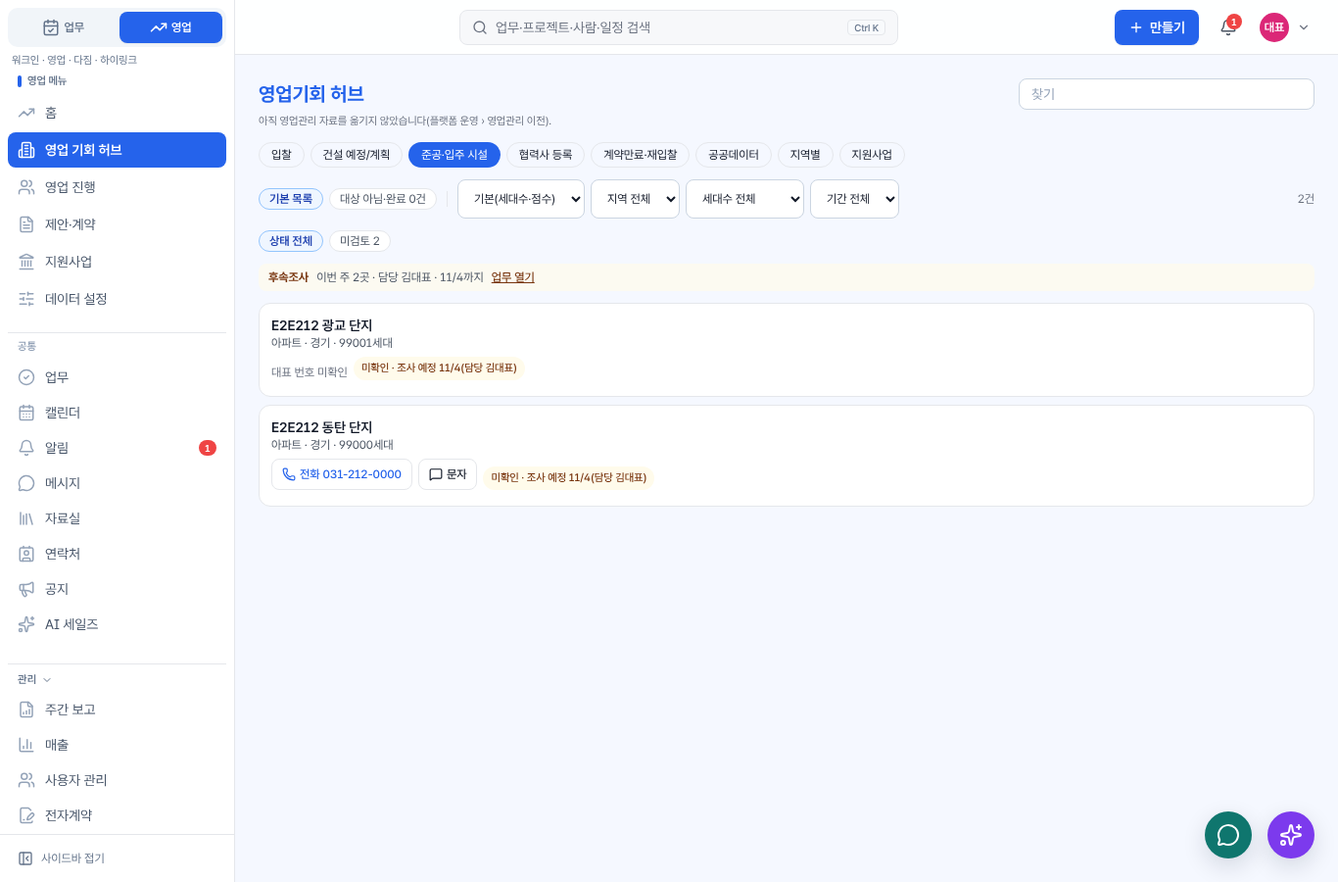
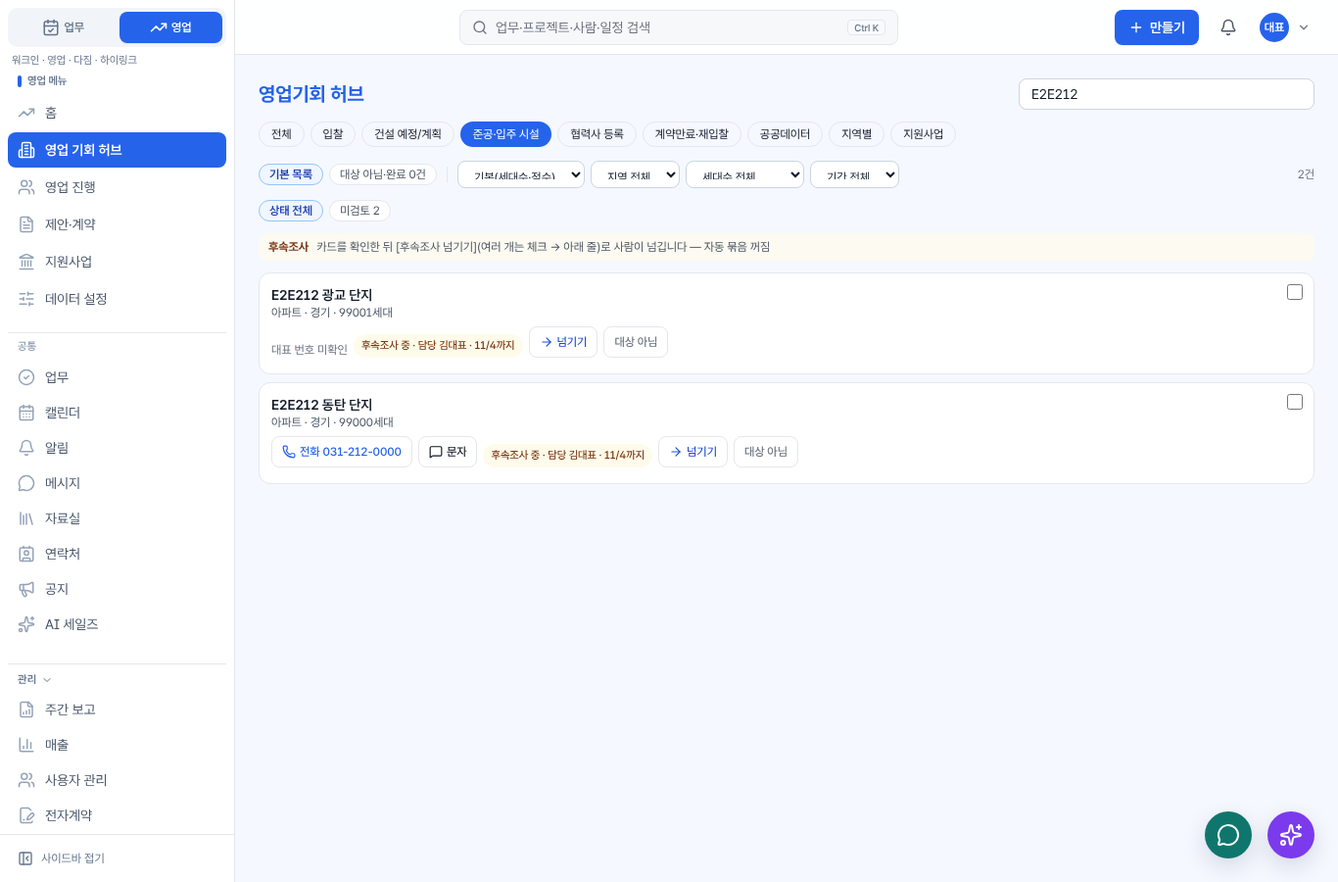
[배포확인요청][로컬요청] 247차 — #777 후속조사 자동 묶음 끄기 · 사람이 [후속조사 넘기기](담당 기본 = 담당자 지정) · #778 완료 창 연락 결과(미팅 → 일정 · 다음 연락 → 업무)
로컬 10/28 21:35 대표 결정.
- src/lib/sales/research.ts: RESEARCH_WEEKLY_GATE 기본 'off' · handoffResearch(고른 시설 → 업무 하나, 담당 기본 = 영업 원천·시설 규칙, 이미 조사 중이면 건너뜀) · 연락 결과(call·contactTitle·reaction·meetingAt·nextDate) → 미팅 일정(회사 캘린더, 권한 없으면 내 캘린더)·다음 연락 업무, 같은 값 다시 저장해도 한 번 · 통화 안 됨만이면 확인 못함
- src/app/api/sales/research/handoff: POST
- src/lib/sales/srcViews.ts: 카드 research 에 반응·미팅·직함·다음 연락
- src/components/sales/SalesSrc.tsx: ResearchHandoff(카드·일괄 줄) · 칩 '후속조사 중 · 담당 · 마감' · 연락 결과 칩 · 머리 줄 자동 꺼짐 안내
- src/components/sales/ResearchAsk.tsx: 통화·반응·직함·미팅 약속·다음 연락일 · 계약 만료일 선택 · 물어볼 말(미팅) · 정리 줄
- tests: api sales-research-handoff-247(새) · e2e research212(두 곳 체크 넘기기·연락 결과)
시험: API 8/8 · E2E 1/1 · typecheck·lint·build

Claude-Session: https://claude.ai/code/session_016D6QaBbBuSZXAeHKp3DqaZ

diff --git a/src/lib/sales/research.ts b/src/lib/sales/research.ts
@@ -23,7 +23,11 @@ const AGAIN_DAYS = 84;
 export type Missing = 'operator' | 'contract' | 'phone';
 /** #758(대표 10/28): mode = 운영 방식(직영·위탁·미개관) · firstPick = 미개관이면 첫 운영사 선정 예정 시기(자유 글) */
 export const RESEARCH_MODES = ['직영', '위탁', '미개관'] as const;
-export type ResearchResult = { operator?: string | null; contractEnd?: string | null; phone?: string | null; note?: string | null; mode?: (typeof RESEARCH_MODES)[number] | null; firstPick?: string | null };
+/** 247차 #778(대표 10/28 21:35 '계약 만료일은 잘 안 알려 줌 — 컨택해서 미팅 유도'): 연락 결과 — 통화·통화한 분 직함(개인 전화는 저장 안 함)·반응·미팅 약속(일정)·다음 연락일(업무) */
+export const RESEARCH_CALLS = ['통화함', '안 받음', '번호 틀림'] as const;
+export const RESEARCH_REACTIONS = ['관심 있음', '보통', '관심 없음'] as const;
+export type ResearchResult = { operator?: string | null; contractEnd?: string | null; phone?: string | null; note?: string | null; mode?: (typeof RESEARCH_MODES)[number] | null; firstPick?: string | null;
+  call?: (typeof RESEARCH_CALLS)[number] | null; contactTitle?: string | null; reaction?: (typeof RESEARCH_REACTIONS)[number] | null; meetingAt?: string | null; nextDate?: string | null; meetingEventId?: string | null; nextTaskId?: string | null };
 export type ResearchState = { id: number; week: string; status: 'open' | 'done' | 'none'; due: string | null; taskId: string | null; assignee: string | null; doneAt: string | null; missing: Missing[];
   /** 지금까지 적은 값(최근 것 먼저 — 칸마다) */ result: ResearchResult };
 
@@ -45,7 +49,7 @@ export async function researchState(sql: Sql, t: string): Promise<Map<string, Re
   const out = new Map<string, ResearchState>();
   for (const r of rows) {
     const cur = out.get(r.src_id);
-    if (cur) { for (const k of ['operator', 'contractEnd', 'phone', 'note', 'mode', 'firstPick'] as const) if (!cur.result[k] && r.result?.[k]) (cur.result as Record<string, unknown>)[k] = r.result[k]; continue; }
+    if (cur) { for (const k of ['operator', 'contractEnd', 'phone', 'note', 'mode', 'firstPick', 'call', 'contactTitle', 'reaction', 'meetingAt', 'nextDate'] as const) if (!cur.result[k] && r.result?.[k]) (cur.result as Record<string, unknown>)[k] = r.result[k]; continue; }
     const closed = r.status === 'open' && (!r.task_id || r.deleted || r.task_status === 'done');
     const doneAt = r.done_at ?? (closed ? r.completed_at ?? null : null);
     out.set(r.src_id, { id: r.id, week: r.week, status: closed ? 'none' : (r.status as ResearchState['status']), due: r.due, taskId: r.deleted ? null : r.task_id, assignee: r.assignee,
@@ -125,9 +129,11 @@ export async function researchWeekly(t: string, opt: { now?: Date; actor?: Sessi
   return { week, items: picked.length, taskId: task.id, assigneeId, due };
 }
 
-/** 정기 실행: 월요일(KST) 08시 이후 첫 tick 에 영업 공간을 켠 회사마다 한 번(SALES_RESEARCH_WEEKLY = '요일-시' 기본 '1-8', 'any' = 늘, 'off' = 안 함) */
+/** 정기 실행: SALES_RESEARCH_WEEKLY = '요일-시'(예 '1-8' = 월요일 08시 뒤 첫 tick) · 'any' = 늘 · 'off' = 안 함.
+ *  247차 #777(대표 10/28 21:35 'db가 생성될 때마다 업무를 부여하는게 아니라 단지 정보를 확인 후 업무로 넘기는건 사람이 합니다'): 기본 'off' — 카드·여러 개 체크 [후속조사 넘기기]로 사람이 넘김 */
+export const RESEARCH_WEEKLY_GATE = () => process.env.SALES_RESEARCH_WEEKLY ?? 'off';
 export async function researchWeeklyTick(opt: { now?: Date } = {}) {
-  const now = opt.now ?? new Date(); const gate = process.env.SALES_RESEARCH_WEEKLY ?? '1-8';
+  const now = opt.now ?? new Date(); const gate = RESEARCH_WEEKLY_GATE();
   if (gate === 'off') return { skipped: 'off' };
   if (gate !== 'any') {
     const [dow, hour] = gate.split('-').map(Number);
@@ -151,7 +157,7 @@ export async function researchOverview(u: SessionUser) {
     select w.week::text as week, w.task_id, w.items, tk.due_date::text as due, a.name as assignee, tk.status as task_status, tk.deleted_at is not null as deleted
     from sales_research_weekly w left join tasks tk on tk.id = w.task_id left join users a on a.id = tk.assignee_id where w.tenant = ${t} order by w.week desc limit 1`;
   const [n] = w?.task_id ? await sql<{ done: number; none: number }[]>`select count(*) filter (where status = 'done')::int as done, count(*) filter (where status = 'none')::int as none from sales_research where task_id = ${w.task_id}` : [{ done: 0, none: 0 }];
-  const gate = process.env.SALES_RESEARCH_WEEKLY ?? '1-8';
+  const gate = RESEARCH_WEEKLY_GATE();
   return { latest: w ? { week: w.week, thisWeek: w.week === week, taskId: w.deleted ? null : w.task_id, items: w.items, due: w.due, assignee: w.assignee, taskDone: w.task_status === 'done', done: n.done, none: n.none } : null,
     max: RESEARCH_MAX(), auto: gate !== 'off', canRun: isAdmin(u) && w?.week !== week };
 }
@@ -160,6 +166,49 @@ export async function runResearchManual(u: SessionUser) {
   await assertSpace(u, 'sales');
   if (!isAdmin(u)) throw forbidden('후속조사 묶음은 관리자만 만들 수 있습니다');
   return researchWeekly(tenantOf(u), { actor: u });
+}
+
+/** 247차 #777: [후속조사 넘기기] — 사람이 고른 준공·입주 시설(카드 하나 또는 여러 개 체크)을 후속조사 업무 하나로. 담당 기본 = 담당자 지정 '영업 원천 · 시설'(바꿀 수 있음, 영업 공간 사람만).
+ *  이미 후속조사 중인 곳은 건너뜀. 묶인 시설은 sales_research 에 한 줄씩(카드 '후속조사 중 · 담당', 업무 [완료] 때 연락 결과 창) */
+export const researchHandoffInput = z.object({ ids: z.array(z.string().min(1).max(200)).min(1).max(50), assigneeId: z.string().uuid().optional() });
+export async function handoffResearch(u: SessionUser, i: z.infer<typeof researchHandoffInput>) {
+  await assertSpace(u, 'sales');
+  const sql = db(); const t = tenantOf(u); const today = ymd(); const week = weekMonday(today);
+  const ids = [...new Set(i.ids)];
+  const rows = await sql<{ src_id: string; row: any }[]>`select src_id, row from sales_src_rows where scope = 'global' and tbl = 'operating_facility_prospects' and src_id = any(${ids}::text[])`;
+  if (!rows.length) throw notFound('시설을 찾을 수 없습니다');
+  const { handoffPeople } = await import('./handoff');
+  const ppl = await handoffPeople(u, 'facility');
+  const assigneeId = i.assigneeId ?? ppl.suggested ?? u.id;
+  if (!ppl.people.some((p) => p.id === assigneeId)) throw badRequest('담당자는 영업 공간 구성원·관리자 중에서 골라야 합니다');
+  const state = await researchState(sql, t);
+  const skipped: { id: string; name: string; why: string }[] = []; const picked: { id: string; name: string; r: any }[] = [];
+  for (const { src_id, row: r } of rows) {
+    const name = String(r.name ?? r.facility_name ?? r.complex_name ?? '(이름 없음)'); const s = state.get(src_id);
+    if (s?.status === 'open' && s.taskId) skipped.push({ id: src_id, name, why: `이미 후속조사 중${s.assignee ? `(담당 ${s.assignee})` : ''}` }); else picked.push({ id: src_id, name, r });
+  }
+  if (!picked.length) return { taskId: null, items: 0, skipped };
+  const terms = await (await import('./options')).salesTerms(t);
+  const counts = await relatedNoticeCounts(sql).catch(() => new Map<string, number>());
+  const hh = (n: unknown) => (Number(n) > 0 ? `${Number(n).toLocaleString('ko-KR')}세대` : null);
+  const lines = picked.map(({ name, r }, k) => { const phone = r.office_phone ?? r.management_phone ?? r.phone; const n = noticeCountOf(counts, name);
+    return `${k + 1}. ${name}${[r.region, hh(r.household_count)].filter(Boolean).length ? ` (${[r.region, hh(r.household_count)].filter(Boolean).join(' · ')})` : ''}${phone ? ` · ${terms.office} ${phone}` : ''}${n ? ` · 관련 공고 ${n}건` : ''}`
+      + `\n   /s/sales/hub?tab=facilities&q=${encodeURIComponent(name)}`; });
+  const title = picked.length === 1 ? `[후속조사] ${picked[0].name} — 연락(전화)` : `[후속조사] ${terms.kind.facility} ${picked.length}곳 — 연락(전화)`;
+  const description = `${u.name}님이 넘긴 후속조사 ${picked.length}곳입니다 — ${terms.office}에 전화해 ${terms.opCheck}(직영·위탁·미개관)과 담당하시는 분을 확인하고, 미팅을 잡아 주세요.\n`
+    + `업무를 [완료]하면 곳마다 연락 결과(통화·통화한 분 직함·반응·미팅 약속·다음 연락일)를 적는 창이 뜹니다. 계약 만료일은 알려 주면 적고, 몰라도 됩니다. 개인 휴대폰 번호는 적지 않습니다.\n\n${lines.join('\n')}`;
+  const { createTask } = await import('../tasks');
+  const task = await createTask(u, { title: title.slice(0, 200), description, space: 'sales', assigneeId, requestedById: u.id, dueDate: addDays(today, RESEARCH_DUE_DAYS), approvalRequired: false, tags: ['영업', '후속조사'] }, { quiet: true, skipQuota: true });
+  await sql`update tasks set sales_ref = ${sql.json({ kind: 'research', id: `facility:handoff:${task.id}`, name: `${terms.facilitiesTab} 후속조사` })}, assigned_by_rule = ${!i.assigneeId && ppl.suggested === assigneeId ? ppl.suggestedByRule ?? null : null} where id = ${task.id}`;
+  for (const { id, name, r } of picked) {
+    const missing = missingOf({ operator: communityOperator(r.current_operator, r.management_company), contractEnd: r.contract_end_date ?? r.contract_end ?? null, phone: r.office_phone ?? r.management_phone ?? r.phone });
+    await sql`insert into sales_research (tenant, kind, src_id, name, week, task_id, missing) values (${t}, 'facility', ${id}, ${name.slice(0, 300)}, ${week}::date, ${task.id}, ${missing})
+      on conflict (tenant, kind, src_id, week) do update set task_id = excluded.task_id, missing = excluded.missing, status = 'open', updated_at = now()`;
+  }
+  if (assigneeId !== u.id) await notify(sql, { userIds: [assigneeId], type: 'task_assigned', space: 'sales', title: `후속조사: ${title.replace(/^\[후속조사\]\s*/, '').slice(0, 60)}`,
+    body: `${u.name}님이 후속조사 ${picked.length}곳을 넘겼습니다 — ${md(addDays(today, RESEARCH_DUE_DAYS))}까지 연락`, link: `/tasks/${task.id}`, entityType: 'task', entityId: task.id, actorId: u.id, push: true, dedupeKey: `sales_research:handoff:${task.id}` } as never).catch(() => []);
+  await audit(sql, u.id, 'sales_research.handoff', 'task', task.id, { items: picked.map((x) => x.id), assigneeId, skipped: skipped.length }).catch(() => {});
+  return { taskId: task.id, items: picked.length, skipped, assigneeId };
 }
 
 /** 업무 [완료] 창: 이 업무에 묶인 시설과 지금 값(적은 값 먼저) */
@@ -193,7 +242,9 @@ export function communityOperator(op: unknown, mgmt: unknown): string | null {
 const ymdRe = /^\d{4}-\d{2}-\d{2}$/;
 export const researchInput = z.object({ operator: z.string().trim().max(100).nullable().optional(), contractEnd: z.string().regex(ymdRe).nullable().optional().or(z.literal('').transform(() => null)),
   phone: z.string().trim().max(40).regex(/^[0-9+\-() ]*$/, '전화번호는 숫자와 - 만 적어 주세요').nullable().optional(), note: z.string().trim().max(500).nullable().optional(),
-  mode: z.enum(RESEARCH_MODES).nullable().optional(), firstPick: z.string().trim().max(40).nullable().optional() });
+  mode: z.enum(RESEARCH_MODES).nullable().optional(), firstPick: z.string().trim().max(40).nullable().optional(),
+  call: z.enum(RESEARCH_CALLS).nullable().optional(), contactTitle: z.string().trim().max(40).nullable().optional(), reaction: z.enum(RESEARCH_REACTIONS).nullable().optional(),
+  meetingAt: z.string().regex(/^\d{4}-\d{2}-\d{2}T\d{2}:\d{2}$/).nullable().optional().or(z.literal('').transform(() => null)), nextDate: z.string().regex(ymdRe).nullable().optional().or(z.literal('').transform(() => null)) });
 /**
  * 시설 하나의 조사 결과 저장 — 값이 하나라도 있으면 '조사함', 모두 비면 '확인 못함'. 업무를 볼 수 있는 사람만(못 보면 404).
  * 전환 뒤(쓰기 열림)에는 현 위탁사·계약만료일을 회사 진행 기록에도 — 계약만료·재입찰 탭·시설 보관함과 같은 값
@@ -202,13 +253,38 @@ export async function saveResearch(u: SessionUser, id: number, i: z.infer<typeof
   await assertSpace(u, 'sales');
   const sql = db(); const t = tenantOf(u);
   if (!Number.isInteger(id) || id <= 0) throw notFound('후속조사 건을 찾을 수 없습니다');
-  const [r] = await sql<{ id: number; src_id: string; name: string; task_id: string | null }[]>`select id, src_id, name, task_id from sales_research where id = ${id} and tenant = ${t}`;
+  const [r] = await sql<{ id: number; src_id: string; name: string; task_id: string | null; prev: ResearchResult | null }[]>`select id, src_id, name, task_id, result as prev from sales_research where id = ${id} and tenant = ${t}`;
   if (!r) throw notFound('후속조사 건을 찾을 수 없습니다');
   if (r.task_id) await loadTaskForUser(u, r.task_id); else if (!isAdmin(u)) throw notFound('후속조사 건을 찾을 수 없습니다');
   const result: ResearchResult = { operator: i.operator?.trim() || null, contractEnd: i.contractEnd || null, phone: i.phone?.trim() || null, note: i.note?.trim() || null,
-    mode: i.mode ?? null, firstPick: i.mode === '미개관' ? i.firstPick?.trim() || null : null }; // #758 첫 운영사 선정 예정 시기는 미개관일 때만
+    mode: i.mode ?? null, firstPick: i.mode === '미개관' ? i.firstPick?.trim() || null : null, // #758 첫 운영사 선정 예정 시기는 미개관일 때만
+    call: i.call ?? null, contactTitle: i.contactTitle?.trim() || null, reaction: i.reaction ?? null, meetingAt: i.meetingAt || null, nextDate: i.nextDate || null };
   if (result.contractEnd && Number.isNaN(Date.parse(`${result.contractEnd}T00:00:00Z`))) throw badRequest('계약만료일이 올바르지 않습니다');
-  const status = result.operator || result.contractEnd || result.phone || result.mode ? 'done' : 'none';
+  // 247차 #778: 통화가 안 됐고(안 받음·번호 틀림) 다른 값도 없으면 '확인 못함'
+  const status = result.operator || result.contractEnd || result.phone || result.mode || result.call === '통화함' || result.contactTitle || result.reaction || result.meetingAt || result.nextDate ? 'done' : 'none';
+  // 미팅 약속 → 일정 하나(회사 공용 캘린더, 없으면 내 캘린더) · 다음 연락일 → 업무 하나 — 같은 값으로 다시 저장하면 다시 만들지 않음
+  const prev = r.prev ?? {};
+  if (result.meetingAt) {
+    if (prev.meetingAt === result.meetingAt && prev.meetingEventId) result.meetingEventId = prev.meetingEventId;
+    else {
+      const [cal] = await sql<{ id: string }[]>`select id from calendars where type = 'company' and tenant = ${t} order by created_at limit 1`;
+      const st = new Date(`${result.meetingAt}:00+09:00`); const { createEvent } = await import('../events');
+      const mk = (calendarId?: string) => createEvent(u, { ...(calendarId ? { calendarId } : {}), title: `[영업] 미팅 · ${r.name}`.slice(0, 200), start: st.toISOString(), end: new Date(st.getTime() + 3600e3).toISOString(), allDay: false,
+        description: `후속조사에서 잡은 미팅${result.contactTitle ? ` — ${result.contactTitle}` : ''}${result.reaction ? ` · 반응 ${result.reaction}` : ''}\n시설: /s/sales/hub?tab=facilities&q=${encodeURIComponent(r.name)}`, attendeeIds: [u.id], reminderMinutes: [1440, 60] } as never);
+      // 회사 캘린더에 쓸 권한이 없으면(직원) 내 캘린더에 — 일정을 못 만들어도 조사 결과는 저장
+      const ev: any = await mk(cal?.id).catch(() => (cal ? mk().catch(() => null) : null));
+      result.meetingEventId = String(ev?.id ?? ev?.event?.id ?? '') || null;
+    }
+  }
+  if (result.nextDate) {
+    if (prev.nextDate === result.nextDate && prev.nextTaskId) result.nextTaskId = prev.nextTaskId;
+    else {
+      const tk = await (await import('../tasks')).createTask(u, { title: `[영업] ${r.name} — 다음 연락`.slice(0, 200), description: `후속조사 다음 연락${result.contactTitle ? ` — ${result.contactTitle}` : ''}${result.reaction ? ` · 반응 ${result.reaction}` : ''}${result.note ? `\n메모: ${result.note}` : ''}\n시설: /s/sales/hub?tab=facilities&q=${encodeURIComponent(r.name)}`,
+        space: 'sales', assigneeId: u.id, requestedById: u.id, dueDate: result.nextDate, approvalRequired: false, tags: ['영업', '후속조사'] } as never, { quiet: true, skipQuota: true });
+      await sql`update tasks set sales_ref = ${sql.json({ kind: 'facility', id: r.src_id, name: r.name })} where id = ${tk.id}`;
+      result.nextTaskId = tk.id;
+    }
+  }
   await sql`update sales_research set status = ${status}, result = ${sql.json(result as never)}, done_by = ${u.id}, done_at = now(), updated_at = now() where id = ${r.id}`;
   let saved = false;
   if (result.operator || result.contractEnd) {

diff --git a/src/components/sales/ResearchAsk.tsx b/src/components/sales/ResearchAsk.tsx
@@ -11,7 +11,11 @@ import { Button, Modal, cx, inputCls, toast } from '@/components/ui';
  */
 type Mode = '' | '직영' | '위탁' | '미개관';
 type Item = { id: number; srcId: string; name: string; region: string | null; households: number | null; missing: string[]; status: string; phone: string | null; operator: string | null; mgmt?: string | null; notices?: number; moveIn?: string | null; approval?: string | null;
-  result: { operator?: string | null; contractEnd?: string | null; phone?: string | null; note?: string | null; mode?: Mode | null; firstPick?: string | null } };
+  result: { operator?: string | null; contractEnd?: string | null; phone?: string | null; note?: string | null; mode?: Mode | null; firstPick?: string | null;
+    call?: Call | null; contactTitle?: string | null; reaction?: React0 | null; meetingAt?: string | null; nextDate?: string | null } };
+/** 247차 #778(대표 10/28 21:35 '계약 만료일을 묻는건 잘 안 알려 줌 — 컨택해서 미팅을 유도'): 연락 결과 먼저 — 통화·통화한 분 직함·반응·미팅 약속·다음 연락일 */
+type Call = '' | '통화함' | '안 받음' | '번호 틀림';
+type React0 = '' | '관심 있음' | '보통' | '관심 없음';
 type Data = { terms: { operator: string; office: string; opCheck?: string; facility?: string }; items: Item[] };
 type Ask = 'ok' | 'skip' | null;
 
@@ -33,23 +37,26 @@ export function useResearchAsk() {
 function ResearchDialog({ title, data, onDone }: { title: string; data: Data; onDone: (v: Ask) => void }) {
   const T = data.terms;
   const [rows, setRows] = useState(() => data.items.map((x) => ({ id: x.id, mode: (x.result.mode ?? '') as Mode, operator: x.result.operator ?? '', contractEnd: x.result.contractEnd ?? '', phone: x.result.phone ?? '',
-    firstPick: x.result.firstPick ?? '', note: x.result.note ?? '' })));
+    firstPick: x.result.firstPick ?? '', note: x.result.note ?? '', call: (x.result.call ?? '') as Call, contactTitle: x.result.contactTitle ?? '', reaction: (x.result.reaction ?? '') as React0,
+    meetingAt: x.result.meetingAt ?? '', nextDate: x.result.nextDate ?? '' })));
   const [busy, setBusy] = useState(false); const [err, setErr] = useState('');
-  const set = (i: number, k: 'mode' | 'operator' | 'contractEnd' | 'phone' | 'firstPick' | 'note', v: string) => setRows((r) => r.map((x, j) => (j === i ? { ...x, [k]: v } : x)));
-  const filled = rows.filter((x) => x.mode || x.operator.trim() || x.contractEnd || x.phone.trim()).length;
+  const set = (i: number, k: 'mode' | 'operator' | 'contractEnd' | 'phone' | 'firstPick' | 'note' | 'call' | 'contactTitle' | 'reaction' | 'meetingAt' | 'nextDate', v: string) => setRows((r) => r.map((x, j) => (j === i ? { ...x, [k]: v } : x)));
+  const filled = rows.filter((x) => x.mode || x.operator.trim() || x.contractEnd || x.phone.trim() || x.call === '통화함' || x.contactTitle.trim() || x.reaction || x.meetingAt || x.nextDate).length;
   async function save() {
     setBusy(true); setErr('');
     try {
       for (const x of rows) await api(`/api/sales/research/${x.id}`, { method: 'PATCH', body: { mode: x.mode || null, operator: x.mode === '직영' || x.mode === '미개관' ? null : x.operator.trim() || null,
-        contractEnd: x.mode === '직영' || x.mode === '미개관' ? null : x.contractEnd || null, phone: x.phone.trim() || null, firstPick: x.mode === '미개관' ? x.firstPick.trim() || null : null, note: x.note.trim() || null } });
-      toast.ok(`후속조사 ${rows.length}곳을 적었습니다 — 확인 ${filled}곳${rows.length - filled ? ` · 확인 못함 ${rows.length - filled}곳` : ''}`);
+        contractEnd: x.mode === '직영' || x.mode === '미개관' ? null : x.contractEnd || null, phone: x.phone.trim() || null, firstPick: x.mode === '미개관' ? x.firstPick.trim() || null : null, note: x.note.trim() || null,
+        call: x.call || null, contactTitle: x.contactTitle.trim() || null, reaction: x.reaction || null, meetingAt: x.meetingAt || null, nextDate: x.nextDate || null } });
+      const meet = rows.filter((x) => x.meetingAt).length, next = rows.filter((x) => x.nextDate).length;
+      toast.ok(`후속조사 ${rows.length}곳을 적었습니다 — 확인 ${filled}곳${rows.length - filled ? ` · 확인 못함 ${rows.length - filled}곳` : ''}${meet ? ` · 미팅 일정 ${meet}건` : ''}${next ? ` · 다음 연락 업무 ${next}건` : ''}`);
       onDone('ok');
     } catch (e: any) { setErr(e.message); } finally { setBusy(false); }
   }
   return (
     <Modal open onClose={() => onDone(null)} title="조사한 값을 적고 완료" wide>
       <div className="space-y-3 text-sm" data-testid="research-ask">
-        <p className="text-xs text-ink-2">‘{title}’을(를) 마칩니다. 곳마다 <b>{T.opCheck ?? '운영 방식'}</b>을(를) 골라 주세요 — 직영 · 위탁(→ {T.operator}·계약 만료일) · 미개관(→ 첫 운영사 선정 예정 시기). 비워 둔 곳은 <b>확인 못함</b>으로 남고 12주 뒤 다시 조사 묶음에 들어옵니다.</p>
+        <p className="text-xs text-ink-2">‘{title}’을(를) 마칩니다. 곳마다 <b>연락 결과</b>(통화 · 통화한 분 직함 · 반응 · 미팅 약속 · 다음 연락일)와 {T.opCheck ?? '운영 방식'}을(를) 적어 주세요 — 미팅 약속은 일정으로, 다음 연락일은 업무로 만듭니다. 계약 만료일은 알려 준 경우만(선택). 개인 휴대폰 번호는 적지 않습니다. 비워 둔 곳은 <b>확인 못함</b>으로 남고 12주 뒤 다시 조사 묶음에 들어옵니다.</p>
         <ul className="max-h-[60vh] space-y-2 overflow-y-auto">
           {data.items.map((x, i) => (
             <li key={x.id} className="rounded-input border border-line p-2" data-testid="research-ask-row">
@@ -58,6 +65,18 @@ function ResearchDialog({ title, data, onDone }: { title: string; data: Data; on
                 {x.mgmt && <span className="basis-full text-[11px] text-ink-3" data-testid="research-ask-mgmt">관리회사(주택관리업자) {x.mgmt} — {T.operator}와 다를 수 있음</span>}
                 {(x.notices ?? 0) > 0 && <Link href={`/s/sales/hub?tab=bids&q=${encodeURIComponent(x.name)}`} target="_blank" className="rounded-full bg-blue-50 px-1.5 py-0.5 text-[11px] text-blue-800 hover:underline" data-testid="research-ask-notices">관련 공고 {x.notices}건</Link>}
                 <Link href={`/s/sales/hub?tab=facilities&q=${encodeURIComponent(x.name)}`} target="_blank" className="ml-auto text-[11px] text-ink-3 underline">카드 보기</Link></div>
+              <div className="mt-1.5 flex flex-wrap items-center gap-1" role="radiogroup" aria-label="통화" data-testid="research-ask-call"><span className="text-[11px] text-ink-3">통화</span>
+                {(['통화함', '안 받음', '번호 틀림'] as const).map((c) => <button key={c} type="button" role="radio" aria-checked={rows[i].call === c} onClick={() => set(i, 'call', rows[i].call === c ? '' : c)}
+                  className={cx('h-7 rounded-full border px-3 text-xs', rows[i].call === c ? 'border-transparent bg-sky-600 font-semibold text-white' : 'border-line bg-white text-ink-2 hover:bg-slate-50')} data-testid={`research-ask-call-${c}`}>{c}</button>)}</div>
+              {rows[i].call === '통화함' && <>
+                <div className="mt-1.5 flex flex-wrap items-center gap-1" role="radiogroup" aria-label="반응" data-testid="research-ask-reaction"><span className="text-[11px] text-ink-3">반응</span>
+                  {(['관심 있음', '보통', '관심 없음'] as const).map((c) => <button key={c} type="button" role="radio" aria-checked={rows[i].reaction === c} onClick={() => set(i, 'reaction', rows[i].reaction === c ? '' : c)}
+                    className={cx('h-7 rounded-full border px-3 text-xs', rows[i].reaction === c ? 'border-transparent bg-sky-600 font-semibold text-white' : 'border-line bg-white text-ink-2 hover:bg-slate-50')} data-testid={`research-ask-reaction-${c}`}>{c}</button>)}</div>
+                <div className="mt-1.5 grid gap-1.5 sm:grid-cols-[1fr_11rem_9.5rem]">
+                  <input className={cx(inputCls, 'h-8 text-xs')} value={rows[i].contactTitle} onChange={(e) => set(i, 'contactTitle', e.target.value)} maxLength={40} placeholder="통화한 분 직함(예: 관리소장) — 이름·개인 번호는 적지 않음" aria-label="통화한 분 직함" data-testid="research-ask-title" />
+                  <input type="datetime-local" step={900} className={cx(inputCls, 'h-8 text-xs')} value={rows[i].meetingAt} onChange={(e) => set(i, 'meetingAt', e.target.value)} aria-label="미팅 약속 일시" title="미팅 약속 일시(있으면 일정을 만듭니다)" data-testid="research-ask-meeting" />
+                  <input type="date" className={cx(inputCls, 'h-8 text-xs')} value={rows[i].nextDate} onChange={(e) => set(i, 'nextDate', e.target.value)} aria-label="다음 연락일" title="다음 연락일(있으면 업무를 만듭니다)" data-testid="research-ask-next" />
+                </div></>}
               <div className="mt-1.5 flex flex-wrap gap-1" role="radiogroup" aria-label={T.opCheck ?? '운영 방식'} data-testid="research-ask-mode">
                 {(['직영', '위탁', '미개관'] as const).map((m) => <button key={m} type="button" role="radio" aria-checked={rows[i].mode === m} onClick={() => set(i, 'mode', rows[i].mode === m ? '' : m)}
                   className={cx('h-7 rounded-full border px-3 text-xs', rows[i].mode === m ? 'border-transparent bg-brand-600 font-semibold text-white' : 'border-line bg-white text-ink-2 hover:bg-slate-50')} data-testid={`research-ask-mode-${m}`}>{m}</button>)}
@@ -67,7 +86,7 @@ function ResearchDialog({ title, data, onDone }: { title: string; data: Data; on
                   ? <input className={cx(inputCls, 'h-8 text-xs')} value={rows[i].firstPick} onChange={(e) => set(i, 'firstPick', e.target.value)} maxLength={40} placeholder="첫 운영사 선정 예정 시기(예: 2027년 3월 입주 뒤)" aria-label="첫 운영사 선정 예정 시기" data-testid="research-ask-first" />
                   : rows[i].mode !== '직영' && <>
                     <input className={cx(inputCls, 'h-8 text-xs')} value={rows[i].operator} onChange={(e) => set(i, 'operator', e.target.value)} maxLength={100} placeholder={x.operator ? `${T.operator}(지금 ${x.operator})` : `${T.operator}(위탁이면)`} aria-label={T.operator} data-testid="research-ask-operator" />
-                    <input type="date" className={cx(inputCls, 'h-8 text-xs')} value={rows[i].contractEnd} onChange={(e) => set(i, 'contractEnd', e.target.value)} aria-label="계약 만료일" title="계약 만료일(위탁이면)" data-testid="research-ask-end" />
+                    <input type="date" className={cx(inputCls, 'h-8 text-xs')} value={rows[i].contractEnd} onChange={(e) => set(i, 'contractEnd', e.target.value)} aria-label="계약 만료일(선택)" title="계약 만료일 — 알려 준 경우만(선택)" data-testid="research-ask-end" />
                   </>}
                 <input type="tel" className={cx(inputCls, 'h-8 text-xs')} value={rows[i].phone} onChange={(e) => set(i, 'phone', e.target.value)} maxLength={40} placeholder={`${T.office} 번호`} aria-label={`${T.office} 번호`} data-testid="research-ask-phone" />
               </div>
@@ -93,7 +112,7 @@ function Questions({ x, T }: { x: Item; T: Data['terms'] }) {
   const fac = T.facility ?? '커뮤니티 시설';
   const known = [x.phone && `${T.office} ${x.phone}`, x.mgmt && `관리회사 ${x.mgmt}`, (x.notices ?? 0) > 0 && `관련 공고 ${x.notices}건`, x.moveIn && `입주 ${x.moveIn}`, !x.moveIn && x.approval && `사용승인 ${x.approval}`].filter(Boolean);
   const q = [`${fac} 운영은 관리사무소에서 직접 하시나요, 위탁 업체에 맡기시나요?`,
-    x.mgmt ? `관리회사(${x.mgmt})와 별도로 ${fac} 위탁 업체가 있나요? 있으면 업체 이름과 계약이 끝나는 때를 여쭤봐도 될까요?` : `위탁이면 업체 이름과 계약이 끝나는 때를 여쭤봐도 될까요?`,
+    x.mgmt ? `관리회사(${x.mgmt})와 별도로 ${fac} 위탁 업체가 있나요? ${fac} 운영을 맡고 계신 분(직함)과 잠깐 뵐 수 있는 시간이 있을까요?` : `${fac} 운영을 맡고 계신 분(직함)과 잠깐 뵐 수 있는 시간이 있을까요?`, // 247차 #778 계약 만료일 대신 미팅
     (x.notices ?? 0) > 0 ? `다음 위탁 업체 선정(입찰) 공고는 언제쯤 내실 예정인가요? (지난 관련 공고 ${x.notices}건)` : x.moveIn && x.moveIn > new Date().toISOString().slice(0, 10) ? `아직 개관 전이면 ${fac} 운영사는 언제쯤 정하시나요?` : `다음 위탁 업체 선정(입찰)은 언제쯤 하실 예정인가요?`];
   return (
     <details className="mt-1.5 rounded-input bg-slate-50 px-2 py-1 text-[11px] text-ink-2" data-testid="research-ask-help">
@@ -103,7 +122,13 @@ function Questions({ x, T }: { x: Item; T: Data['terms'] }) {
     </details>);
 }
 /** 적은 답을 한 줄로 정리 — 저장하면 어디에 쓰이는지 */
-function summaryOf(r: { mode: Mode; operator: string; contractEnd: string; phone: string; firstPick: string }, T: Data['terms']) {
+function summaryOf(r: { mode: Mode; operator: string; contractEnd: string; phone: string; firstPick: string; call: Call; contactTitle: string; reaction: React0; meetingAt: string; nextDate: string }, T: Data['terms']) {
+  const fmt = (v: string) => `${Number(v.slice(5, 7))}/${Number(v.slice(8, 10))}${v.length > 10 ? ` ${v.slice(11, 16)}` : ''}`;
+  const contact = [r.call, r.contactTitle.trim(), r.reaction && `반응 ${r.reaction}`, r.meetingAt && `미팅 ${fmt(r.meetingAt)}(일정 만듦)`, r.nextDate && `다음 연락 ${fmt(r.nextDate)}(업무 만듦)`].filter(Boolean).join(' · ');
+  const rest = summaryMode(r, T);
+  return contact ? `${contact}${rest.startsWith('확인 못함') ? '' : ` / ${rest}`}` : rest;
+}
+function summaryMode(r: { mode: Mode; operator: string; contractEnd: string; phone: string; firstPick: string }, T: Data['terms']) {
   if (r.mode === '직영') return '직영 — 위탁 업체 없음';
   if (r.mode === '미개관') return `미개관 · 첫 운영사 선정 ${r.firstPick.trim() || '시기 확인 못함'} — 그 무렵 다시 조사`;
   if (r.mode === '위탁' || r.operator.trim() || r.contractEnd) {

diff --git a/src/components/sales/SalesSrc.tsx b/src/components/sales/SalesSrc.tsx
@@ -7,7 +7,7 @@ import { AiAsk, AI_ASK_EXAMPLES } from '@/components/AiAsk';
 import { RevenueGoal } from '@/components/marketing/RevenueGoal';
 import Link from 'next/link';
 import { useEffect, useRef, useState } from 'react';
-import { ArrowRight, Copy, Download, ExternalLink, MessageSquare, Phone } from 'lucide-react';
+import { ArrowRight, ClipboardList, Copy, Download, ExternalLink, MessageSquare, Phone } from 'lucide-react';
 import type { SearchHint } from '@/lib/sales/sourceLink';
 import { mdhm } from '@/lib/sales/bidTerms';
 import { api, useApi } from '@/components/client';
@@ -409,6 +409,7 @@ function BulkBar({ kind, ids, onDone, onClear }: { kind: 'bid' | 'building' | 'f
       <b>{ids.length}건 선택</b>
       <input type="date" className={cx(inputCls, 'h-8 !w-auto')} value={next} onChange={(e) => setNext(e.target.value)} aria-label="다음 연락일" />
       <Button size="sm" disabled={busy} onClick={() => go(progress)} data-testid="sales-bulk-go">영업 진행으로({progress}) · 업무 만들기</Button>
+      {kind === 'facility' && <ResearchHandoff ids={ids} onDone={() => { onDone(); onClear(); }} />}
       <Button size="sm" variant="secondary" disabled={busy} onClick={() => go(kind === 'facility' || kind === 'vendor' ? '대상아님' : '대상아님')}>대상아님</Button>
       <button type="button" className="text-xs text-ink-2 underline" onClick={onClear}>선택 해제</button>
     </div>
@@ -1473,18 +1474,47 @@ function ResearchChip({ r }: { r: any }) {
   const T = useSalesTerms(); const x = r.research;
   const na = x?.mode === '직영' || x?.mode === '미개관'; // #758 직영·미개관이면 위탁사·계약 만료일은 묻지 않음
   const miss = [!na && !r.operator && T.operator, !na && !r.contractEnd && '계약만료일', !r.phone && `${T.office} 번호`].filter(Boolean) as string[];
-  const mode = x?.mode ? <span className="rounded-full bg-emerald-50 px-2 py-0.5 text-[11px] font-medium text-emerald-800" data-testid="hub-research-mode">{x.mode}{x.mode === '미개관' && x.firstPick ? ` · 첫 운영사 선정 ${x.firstPick}` : ''}</span> : null;
+  const contact = x && (x.reaction || x.meetingAt) ? <span className="rounded-full bg-sky-50 px-2 py-0.5 text-[11px] font-medium text-sky-800" data-testid="hub-research-contact">{[x.contactTitle, x.reaction && `반응 ${x.reaction}`, x.meetingAt && `미팅 ${mdd(x.meetingAt)} ${x.meetingAt.slice(11, 16)}`].filter(Boolean).join(' · ')}</span> : null; // 247차 #778
+  const mode0 = x?.mode ? <span className="rounded-full bg-emerald-50 px-2 py-0.5 text-[11px] font-medium text-emerald-800" data-testid="hub-research-mode">{x.mode}{x.mode === '미개관' && x.firstPick ? ` · 첫 운영사 선정 ${x.firstPick}` : ''}</span> : null;
+  const mode = mode0 || contact ? <>{mode0}{contact}</> : null;
   if (mode && !miss.length && x.status !== 'open') return mode;
   if (!x || (!miss.length && x.status !== 'open')) return null;
   const tip = miss.length ? `미확인: ${miss.join('·')}` : undefined;
   if (x.status === 'open') {
-    const body = `미확인 · 조사 예정 ${x.due ? mdd(x.due) : ''}${x.assignee ? `(담당 ${x.assignee})` : ''}`;
+    const body = `후속조사 중${x.assignee ? ` · 담당 ${x.assignee}` : ''}${x.due ? ` · ${mdd(x.due)}까지` : ''}`; // 247차 #777
     return x.taskId ? <Link href={`/tasks/${x.taskId}`} title={tip} className="inline-flex items-center rounded-full bg-amber-50 px-2 py-0.5 text-[11px] font-medium text-amber-900 hover:underline" data-testid="hub-research-chip">{body}</Link>
       : <span title={tip} className="rounded-full bg-amber-50 px-2 py-0.5 text-[11px] font-medium text-amber-900" data-testid="hub-research-chip">{body}</span>;
   }
   const at = x.doneAt ? `${mdd(seoulYmd(x.doneAt))} ` : '';
   if (mode) return <>{mode}<span title={tip} className="rounded-full bg-slate-100 px-2 py-0.5 text-[11px] text-ink-2" data-testid="hub-research-chip">{`일부 미확인 · ${at}조사함`}</span></>;
   return <span title={[tip, x.note && `메모: ${x.note}`].filter(Boolean).join(' · ') || undefined} className="rounded-full bg-slate-100 px-2 py-0.5 text-[11px] text-ink-2" data-testid="hub-research-chip">{x.status === 'none' ? `미확인 · ${at}조사함(확인 못함)` : `일부 미확인 · ${at}조사함`}</span>;
+}
+/** 247차 #777(대표 10/28 21:35 '단지 정보를 확인 후 업무로 넘기는건 사람이 합니다 · 전화 담당'): [후속조사 넘기기] — 담당 기본 = 담당자 지정 '영업 원천 · 시설', 바꿀 수 있음 */
+function ResearchHandoff({ ids, name, onDone }: { ids: string[]; name?: string; onDone?: () => void }) {
+  const [open, setOpen] = useState(false); const [who, setWho] = useState(''); const [busy, setBusy] = useState(false);
+  const people = useApi<{ people: { id: string; name: string; title: string | null }[]; me: string; suggested?: string | null }>(open ? '/api/sales/work/handoff?kind=facility' : (null as unknown as string), [open]);
+  useEffect(() => { if (people.data && !who) setWho(people.data.suggested ?? people.data.me); }, [people.data, who]);
+  async function go() {
+    setBusy(true);
+    try { const r = await api<{ taskId: string | null; items: number; skipped: { name: string; why: string }[] }>('/api/sales/research/handoff', { body: { ids, assigneeId: who || undefined } });
+      const nm = people.data?.people.find((p) => p.id === who)?.name;
+      if (r.items) toast.ok(`후속조사 ${r.items}곳을 넘겼습니다${nm ? ` — 담당 ${nm}` : ''}${r.skipped.length ? ` · 이미 조사 중 ${r.skipped.length}곳 건너뜀` : ''}`, r.taskId ? { label: '업무 열기', run: () => { window.location.href = `/tasks/${r.taskId}`; } } : undefined);
+      else toast.info(`넘길 곳이 없습니다 — ${r.skipped.map((x) => `${x.name} ${x.why}`).join(' · ')}`);
+      setOpen(false); onDone?.(); }
+    catch (e: any) { toast.error(e.message); } finally { setBusy(false); }
+  }
+  return (<>
+    <button type="button" onClick={() => setOpen(true)} className={cx(linkCls, 'border-amber-500 text-amber-800')} data-testid="research-handoff"><ClipboardList className="size-3.5" aria-hidden />후속조사 넘기기{ids.length > 1 ? ` ${ids.length}곳` : ''}</button>
+    {open && <Modal open onClose={() => setOpen(false)} title="후속조사 업무로 넘기기">
+      <div className="space-y-3 text-sm" data-testid="research-handoff-dialog">
+        <p className="text-xs text-ink-2">{ids.length > 1 ? `고른 ${ids.length}곳` : <b>{name}</b>}을(를) 후속조사 업무 하나로 넘깁니다. 담당자가 관리사무소에 전화해 운영 방식·담당하시는 분을 확인하고 미팅을 잡습니다(마감 7일). 업무를 마치면 곳마다 연락 결과를 적습니다.</p>
+        {!people.data ? <Skeleton rows={2} /> : <div className="flex flex-wrap gap-1.5" role="radiogroup" aria-label="담당">{people.data.people.map((p) => <button key={p.id} type="button" role="radio" aria-checked={who === p.id} onClick={() => setWho(p.id)} data-testid="research-handoff-person"
+          className={cx('rounded-full border px-2.5 py-1 text-xs', who === p.id ? 'border-amber-600 bg-amber-50 font-semibold text-amber-900' : 'border-line bg-white')}>{p.name}{p.title ? ` ${p.title}` : ''}{people.data?.suggested === p.id ? ' · 기본' : ''}</button>)}</div>}
+        <p className="text-[11px] text-ink-3">기본 담당은 관리 › 담당자 지정의 ‘영업 원천 · 시설’ 규칙입니다.</p>
+        <div className="flex justify-end gap-2"><Button variant="secondary" onClick={() => setOpen(false)}>취소</Button><Button onClick={go} disabled={busy || !who} data-testid="research-handoff-go">넘기기</Button></div>
+      </div>
+    </Modal>}
+  </>);
 }
 /** 212차 #612: 허브 '준공·입주 시설' 머리 줄 — 이번 주 후속조사 묶음(담당·마감·조사한 수·업무), 관리자는 이번 주 묶음이 없을 때 [지금 만들기] */
 function ResearchBar({ onDone }: { onDone?: () => void }) {
@@ -1503,8 +1533,8 @@ function ResearchBar({ onDone }: { onDone?: () => void }) {
       {l?.thisWeek && l.items ? <>
         <span data-testid="hub-research-week">이번 주 {l.items}곳{l.assignee ? ` · 담당 ${l.assignee}` : ''}{l.due ? ` · ${mdd(l.due)}까지` : ''}{l.done || l.none ? ` · 조사함 ${l.done + l.none}곳${l.none ? `(확인 못함 ${l.none})` : ''}` : ''}{l.taskDone ? ' · 업무 완료' : ''}</span>
         {l.taskId && <Link href={`/tasks/${l.taskId}`} className="font-medium text-amber-900 underline" data-testid="hub-research-task">업무 열기</Link>}
-      </> : <span data-testid="hub-research-week">{l?.thisWeek ? '이번 주 조사할 곳 없음 · ' : ''}{T.operator}·계약만료일·{T.office} 번호가 빈 큰 단지부터 {data.max}곳을 {data.auto ? '매주 월요일 아침' : '관리자가 만들 때'} 업무 하나로 묶습니다</span>}
-      {data.canRun && <Button size="sm" variant="secondary" className="ml-auto" disabled={busy} onClick={run} data-testid="hub-research-run">이번 주 묶음 지금 만들기</Button>}
+      </> : <span data-testid="hub-research-week">{l?.thisWeek ? '이번 주 조사할 곳 없음 · ' : ''}{data.auto ? `${T.operator}·계약만료일·${T.office} 번호가 빈 큰 단지부터 ${data.max}곳을 매주 월요일 아침 업무 하나로 묶습니다` : '카드를 확인한 뒤 [후속조사 넘기기](여러 개는 체크 → 아래 줄)로 사람이 넘깁니다 — 자동 묶음 꺼짐'}</span>}
+      {data.canRun && data.auto && <Button size="sm" variant="secondary" className="ml-auto" disabled={busy} onClick={run} data-testid="hub-research-run">이번 주 묶음 지금 만들기</Button>}
     </div>
   );
 }
@@ -1552,7 +1582,7 @@ function HubCard({ tab, r, onRaw, onChange, canWrite }: { tab: string; r: any; o
   const today0 = today(); const T = useSalesTerms();
   const leadId = r.work?.leadId ?? r.leadId ?? null; const kind = tab === 'buildings' ? 'building' : tab === 'facilities' ? 'facility' : 'vendor';
   const handedOff = !!(r.work?.handoff ?? r.handoff); // 넘기기로 만든 리드(진행영업 전환은 되돌리기 없음)
-  const handoff = canWrite && !leadId ? <><HandoffButton kind={kind} id={String(r.id)} name={String(r.name ?? '')} onDone={onChange} compact />{!r.archive && <SkipButton kind={kind} id={String(r.id)} onDone={onChange} />}</>
+  const handoff = canWrite && !leadId ? <><HandoffButton kind={kind} id={String(r.id)} name={String(r.name ?? '')} onDone={onChange} compact />{kind === 'facility' && r.research?.status !== 'open' && !r.archive && <ResearchHandoff ids={[String(r.id)]} name={String(r.name ?? '')} onDone={onChange} />}{!r.archive && <SkipButton kind={kind} id={String(r.id)} onDone={onChange} />}</>
     : leadId ? <><Link href={`/s/sales/leads?id=${leadId}`} className={cx(linkCls, 'text-emerald-800')} data-testid="sales-handoff-lead">영업 중 → 리드</Link>{canWrite && handedOff && <RevertButton leadId={leadId} onDone={onChange} />}</> : null; // #610 ⓐ
   return (
     <div className="flex h-full flex-col rounded-card border border-line bg-white p-3 text-sm" data-testid="sales-hub-item">

diff --git a/src/lib/sales/srcViews.ts b/src/lib/sales/srcViews.ts
@@ -588,7 +588,8 @@ export async function salesView(u: SessionUser, view: string, q: { q?: string; i
           operator: RM.communityOperator(pick(p, 'current_operator') ?? pick(r, 'current_operator', 'operator') ?? rs?.result.operator, pick(r, 'management_company')), mgmt: pick(r, 'management_company') ?? null, // #760 관리회사 ≠ 커뮤니티 운영사
           contractEnd: day(pick(p, 'contract_end_date')) ?? rs?.result.contractEnd ?? null,
           phone: pick(r, 'office_phone', 'management_phone', 'phone') ?? rs?.result.phone ?? null, amenities: pick(r, 'amenities', 'facilities', 'community_facilities'),
-          research: rs ? { status: rs.status, due: rs.due, assignee: rs.assignee, taskId: rs.taskId, doneAt: rs.doneAt, missing: rs.missing, note: rs.result.note ?? null, mode: rs.result.mode ?? null, firstPick: rs.result.firstPick ?? null } : null,
+          research: rs ? { status: rs.status, due: rs.due, assignee: rs.assignee, taskId: rs.taskId, doneAt: rs.doneAt, missing: rs.missing, note: rs.result.note ?? null, mode: rs.result.mode ?? null, firstPick: rs.result.firstPick ?? null,
+            reaction: rs.result.reaction ?? null, meetingAt: rs.result.meetingAt ?? null, contactTitle: rs.result.contactTitle ?? null, nextDate: rs.result.nextDate ?? null } : null, // 247차 #778 연락 결과
           notices: RM.noticeCountOf(NC, pick(r, 'name', 'facility_name', 'complex_name')), // #758 '이 단지 관련 공고 n건'
           firstSeen: firstSeen(r), moveIn: day(pick(r, 'move_in_date', 'move_in_start')), lastNote: p?.notes ?? p?.last_note ?? p?.memo ?? null,
           nextAction: p?.next_action ?? pick(r, 'etl_suggested_next_action', 'next_action', 'recommended_action'), nextActionFrom: p?.next_action ? '진행 기록' : pick(r, 'etl_suggested_next_action') ? '수집기 제안' : null,

diff --git a/src/app/api/sales/research/handoff/route.ts b/src/app/api/sales/research/handoff/route.ts
@@ -1,0 +1,5 @@
+import { body, handler } from '@/lib/api';
+import { handoffResearch, researchHandoffInput } from '@/lib/sales/research';
+
+/** 247차 #777: [후속조사 넘기기] — 고른 준공·입주 시설을 후속조사 업무 하나로(담당 기본 = 담당자 지정 '영업 원천 · 시설') */
+export const POST = handler(async ({ req, user }) => handoffResearch(user, await body(req, researchHandoffInput)));

diff --git a/TEST_REPORT.md b/TEST_REPORT.md
@@ -1,7 +1,9 @@
 # 시험 보고서
 
 최종 실행: 2026-10-13 (UTC) · 클라우드 개발 환경 (Node 22, PostgreSQL 16, Chromium 141)
-요약 (2026-10-28 246차: 로컬 10/28 21:10 대표 7건(#770~#776): ① #772 결정 '공고 마감일 당일·마감 시각' — 입찰 업무 마감 = 입찰 마감일 당일 + 마감 시각(14:00·17:00 등, 업무 마감 시각 칸) · 넘기기·리드 옮기기·상태 버튼 자동 업무 모두 · 예전 규칙(마감 전날)으로 만든 열린 입찰 업무는 정기 점검이 한 번 새 규칙으로 다시 계산(사람이 옮긴 기한도, 대표 지시) · 그 뒤로는 사람이 바꾼 기한 그대로 · 카드 '입찰 업무 · 마감 11/2(월) 17:00' ② #771 일정 = 입찰 마감 + 현장설명회(일시가 있고 '없음'이 아닐 때)만 — 참가신청·개찰 일정은 새로 만들지 않음(업무 체크리스트에는 남음, 예전에 만든 일정은 날짜만 따라감) ③ #770 같은 날 같은 건으로 묶인 업무 — 일정 줄에 '업무 담당 이름', 일정을 누르면 미리보기에 업무 줄(상태·마감 시각·담당·[업무 열기]·[완료]) ④ #773 [대상 아님] 탭 — 마감 달마다 묶음 머리 · 마감 지난 것은 기본 접힘(지우지 않음) · 사유 칩으로 거르기 ⑤ #774 공간 배지 = 공간 색 네모(알림 빨간 동그라미와 다른 모양) + 이름표('오늘 새 공고 n건'·'승인할 것 n건') · 공간 첫 화면 맨 위 한 줄(누르면 그 목록) · 마케팅 요약 '승인할 것 n건(시안·운영)' = 승인함 머리와 같은 이름·수 ⑥ #775 후속조사 완료 창 — 통화 도움(공개 자료로 아는 것: 관리사무소 번호·관리회사·관련 공고·입주/사용승인 · 물어볼 말 3줄, AI 호출 없음) · 적은 답 한 줄 정리 ⑦ #776 화상회의 비용 0 안(기기끼리 P2P 최대 4명 / 오라클 상시 무료 서버 + 라이브킷) 계획서에 추가
+요약 (2026-10-28 247차: 로컬 10/28 21:35 대표 결정 #777·#778(후속조사): ① 매주 자동 후속조사 묶음 기본 꺼짐(SALES_RESEARCH_WEEKLY 없으면 'off' — 환경 변수를 넣은 경우만 자동) · 머리 줄 '카드를 확인한 뒤 [후속조사 넘기기]로 사람이 넘깁니다 — 자동 묶음 꺼짐' ② 준공·입주 시설 카드 [후속조사 넘기기] · 여러 개 체크 → 아래 줄 [후속조사 넘기기 n곳] → 담당 고르기(기본 = 관리 › 담당자 지정 '영업 원천 · 시설', 영업 공간 사람만) → 업무 하나(마감 7일·알림) · 이미 후속조사 중인 곳은 건너뜀 · 카드 '후속조사 중 · 담당 · 마감' ③ 완료 창 연락 결과 먼저 — 통화(통화함·안 받음·번호 틀림) · 통화한 분 직함(이름·개인 번호 안 적음) · 반응 · 미팅 약속 일시(→ 일정, 회사 캘린더 권한 없으면 내 캘린더) · 다음 연락일(→ '[영업] 단지 — 다음 연락' 업무) · 같은 값 다시 저장해도 한 번만 · 통화가 안 됐고 다른 값이 없으면 '확인 못함' · 계약 만료일은 선택 칸 · 카드에 직함·반응·미팅
+시험: API 8/8(새 sales-research-handoff-247 3 · sales-research-212 5) · E2E 1/1(212차 후속조사 — 두 곳 체크 넘기기·연락 결과·미팅 일정·다음 연락 업무) · typecheck·lint·build
+확인 못함: 운영에서 김소담 부사장 기본 담당(로컬이 넣은 담당자 지정 규칙) · 대표 배정 이번 주 업무 10곳 처리(대표 답 대기) · 휴대폰 완료 창 입력 편의) · 앞선 요약 (2026-10-28 246차: 로컬 10/28 21:10 대표 7건(#770~#776): ① #772 결정 '공고 마감일 당일·마감 시각' — 입찰 업무 마감 = 입찰 마감일 당일 + 마감 시각(14:00·17:00 등, 업무 마감 시각 칸) · 넘기기·리드 옮기기·상태 버튼 자동 업무 모두 · 예전 규칙(마감 전날)으로 만든 열린 입찰 업무는 정기 점검이 한 번 새 규칙으로 다시 계산(사람이 옮긴 기한도, 대표 지시) · 그 뒤로는 사람이 바꾼 기한 그대로 · 카드 '입찰 업무 · 마감 11/2(월) 17:00' ② #771 일정 = 입찰 마감 + 현장설명회(일시가 있고 '없음'이 아닐 때)만 — 참가신청·개찰 일정은 새로 만들지 않음(업무 체크리스트에는 남음, 예전에 만든 일정은 날짜만 따라감) ③ #770 같은 날 같은 건으로 묶인 업무 — 일정 줄에 '업무 담당 이름', 일정을 누르면 미리보기에 업무 줄(상태·마감 시각·담당·[업무 열기]·[완료]) ④ #773 [대상 아님] 탭 — 마감 달마다 묶음 머리 · 마감 지난 것은 기본 접힘(지우지 않음) · 사유 칩으로 거르기 ⑤ #774 공간 배지 = 공간 색 네모(알림 빨간 동그라미와 다른 모양) + 이름표('오늘 새 공고 n건'·'승인할 것 n건') · 공간 첫 화면 맨 위 한 줄(누르면 그 목록) · 마케팅 요약 '승인할 것 n건(시안·운영)' = 승인함 머리와 같은 이름·수 ⑥ #775 후속조사 완료 창 — 통화 도움(공개 자료로 아는 것: 관리사무소 번호·관리회사·관련 공고·입주/사용승인 · 물어볼 말 3줄, AI 호출 없음) · 적은 답 한 줄 정리 ⑦ #776 화상회의 비용 0 안(기기끼리 P2P 최대 4명 / 오라클 상시 무료 서버 + 라이브킷) 계획서에 추가
 시험: API 영업 전체·마케팅 배지 205 중 204 → 상태 버튼 입찰 업무 기대값(마감 전날→당일 17:00) 고친 뒤 sales-auto 7/7 · E2E 3/3(새 246차 #770·#773·#774 592~594 · 212차 후속조사 + #775 정리·통화 도움 · S1-2 입찰 넘기기) · typecheck·lint·build
 확인 못함: 운영에서 광명푸르지오센트베르·한화포레나 업무가 다음 정기 점검 뒤 '마감일 당일·마감 시각'으로 바뀌는지 · 앱(휴대폰)에서 묶인 줄 누르기 · 오라클 무료 범위 현재 값(계정에서 확인)) · 앞선 요약 (2026-10-28 245차: 자동 시험 빨간불 고침 + 로컬 10/28 20:55 나라장터 참가 제한 진단: ① 1653번(243차) API 1024 중 1022 — K-apt 자료실 주간 시험이 허브 카드 운영사 = 관리회사를 기대(243차 #760 규칙으로 운영사 빈칸·관리회사 따로가 맞음) → 시험 기대값 고침 ② 1648번(241차) E2E 240 중 239 — '219차 화상회의' 시험 일정이 같은 시간 다른 시험 일정과 겹쳐(241차 구글식 겹쳐 쌓기) 클릭이 가려짐 → 13~16시가 빈 날을 골라 만듦 ③ 실제 결함: 나라장터 참가 제한 조회가 '이미 읽은 공고'를 limits_read_at 칸이 있는지로 봤는데 저장 줄엔 늘 빈 칸이 있어 예전에 저장된 관련 공고는 한 번도 안 물었음(로컬 '이번엔 조회 줄 없음'의 원인) → 값이 있어야 읽은 것 ④ 플랫폼 운영 공고 조회 g2b=1: 이미 물었는데 값이 없는 최근 3건(또는 no=공고번호)을 면허제한·참가가능지역 두 조회 × 공고번호/공고번호+차수/게시일 기간 세 방법으로 다시 물어 결과 코드·전체·받은 줄·같은 공고 줄·칸 이름·첫 줄·응답 앞부분(키·메일·전화 가림)만(저장 안 함)
 시험: API sales-* 170/170(새 g2b=1 진단·예전 줄 다시 묻기 2) · E2E 1/1(219차 화상회의 단독) · typecheck·lint·build

diff --git a/docs/handoff/LOCAL_LOG.md b/docs/handoff/LOCAL_LOG.md
@@ -630,6 +630,7 @@
 - 2026-10-28 [클라우드] [배포확인요청][로컬요청] 244차 — #764 허브 [전체] 한 번에 찾기·휴대폰 탭 한 줄 · #765 [대상 아님] 한 번·되돌리기 · #763 메뉴·탭 누르면 바로 '받는 중' 막대 · #766 자체 화상회의 엔진 계획서 · 나라장터 참가 제한 빈 응답 진단 줄. 로컬 확인 부탁: 허브 [전체]에서 '구리역'·'이문' 찾기 · 입찰 카드 [대상 아님] → [되돌리기] · 앱에서 아래 탭 누를 때 막대가 바로 보이는지·체감 · 나라장터 [지금 수집] 오류 줄의 '제한 조회 … 코드 … 전체 …' 값 알려 주기 · #766 계획서 대표 전달(추천 = 라이브킷 공개 소스를 우리 서버에서, 서버 결제는 대표 승인)
 - 2026-10-28 [클라우드] [로컬요청] 245차 — 자동 시험 빨간불 2가지 고침(K-apt 자료실 시험 기대값 · 219차 화상회의 시험 날짜) · 나라장터 참가 제한: 예전에 저장된 관련 공고를 한 번도 안 묻던 결함 고침 · 플랫폼 운영 공고 조회 g2b=1 진단(저장 안 함). 로컬 확인 부탁: /api/platform/sales-notices?g2b=1 (번호 없이 = 값 없던 최근 3건 · 또는 &no=공고번호) 결과의 tries(공고번호·공고번호+차수·게시일 기간별 codes·total·raw·same·keys·first·head)를 그대로 전달 · 다음 나라장터 수집 요약에 '참가 제한 조회 n건(값 m)'이 다시 나오는지
 - 2026-10-28 [클라우드] [배포확인요청][로컬요청] 246차 — #772 입찰 업무 마감 = 공고 마감일 당일·마감 시각(예전 업무도 정기 점검이 한 번 다시 계산) · #771 일정은 입찰 마감 + 현설(일시 있을 때)만 · #770 묶인 업무 일정 줄 표시·미리보기 [업무 열기]·[완료] · #773 대상 아님 달마다 묶음·지난 것 접힘·사유 칩 · #774 공간 배지 공간 색 네모·이름표·첫 화면 한 줄 · #775 후속조사 통화 도움·답 정리 · #776 화상회의 비용 0 안 문서. 로컬 확인 부탁: 다음 정기 점검(10분 안) 뒤 광명푸르지오센트베르·한화포레나 업무 마감이 '11/2 + 마감 시각'인지 · 11/2 일 보기에서 묶인 줄 '업무 이름' 표시와 눌렀을 때 업무 줄 · 대상 아님 탭 · 영업·마케팅 배지 모양과 첫 화면 한 줄 · 계획서 비용 0 안 대표 전달
+- 2026-10-28 [클라우드] [배포확인요청][로컬요청] 247차 — #777 후속조사 자동 묶음 기본 꺼짐 · 카드/여러 개 체크 [후속조사 넘기기](담당 기본 = 담당자 지정 '영업 원천 · 시설') · 카드 '후속조사 중 · 담당' · #778 완료 창 연락 결과(통화·직함·반응·미팅 약속 → 일정·다음 연락일 → 업무, 계약 만료일 선택). 로컬 확인 부탁: 허브 준공·입주 시설 카드 [후속조사 넘기기] 기본 담당이 김소담 부사장인지 · 머리 줄 '자동 묶음 꺼짐' · 다음 월요일 자동 업무가 안 생기는지(Vercel 에 SALES_RESEARCH_WEEKLY 가 들어 있으면 그 값이 우선 — 있으면 지워 달라고 대표께)
 - 2026-10-26 [클라우드] [배포확인요청] 176차 — 171·173차 CI 빨간불 원인 2가지 바로잡음: ① 캘린더 종일 칸 설정이 창 폭이 640 을 넘나들 때 PC 값(꺼짐)을 휴대폰 키에 덮어쓰던 실제 버그(휴대폰 보기 종일 줄이 꺼진 채 시작) → 사람이 바꿀 때만 저장·폭 바뀌면 다시 읽음 ② 실기기 83 시트 버튼 줄 1px 여유. 로컬 확인 요청: 없음(운영 화면 변화는 'PC 창을 좁혔다 넓혀도 휴대폰 종일 줄 설정이 안 꺼짐'뿐). CI 결과는 클라우드가 확인.
 - 2026-10-25 [클라우드] [배포확인요청] 149차 — #599 새 고객사 시뮬레이션(시험 서버 E2E: 가입 → 온보딩 → 첫 화면 → 공간 켜기 → 데이터 설정 → 마케팅 → 자동 제작 → 사용량 → 알림 → API 8개, 캡처 281~295) 명세 §3 결과: 내부 이름 0건 · 키 없는 수집기 7개 = '신청 필요'+[방법 보기] · '채널 연결 3단계' · 첫날 알림 0건 · 사용량 원화만. #602 공통 함수 customerScope(seesInternals = 슈퍼관리자 또는 내부 테넌트): 수집기·사용량·자동 제작·마케팅 홈·AI 예산 응답에서 원인·원가·달러·모델·외부 서비스 이름·원천 주소·공용 실행 기록 제거 + 고객 문구 사전 + 금지 낱말 자동 검사(API 5/5·E2E 발견 0건). P0 버그 수정: 새 회사 첫 로그인·온보딩 끝 직후 흰 화면+로고(수화 오류로 실행 애니메이션 덮개가 안 걷힘) → Modal 마운트 뒤 포털·IntroGuard·CSS 안전장치. 마이그레이션 없음(200 그대로). 로컬 요청: ① 운영에서 새 회사 가입(대표 결정 범위 안에서) → 확인 링크 → 첫 화면이 흰 화면 없이 뜨는지, 온보딩 [완료] 직후도 ② 고객사 계정으로 영업 › 데이터 설정(상태 칩 4가지·[방법 보기]·키 이름/주소/오류 원문 없음)·마케팅 › 자동 제작(글 모델 등급 이름만)·관리 › 사용량(원화·%·횟수만) ③ 내부 테넌트(우리 회사)에서는 예전처럼 전부 보이는지 ④ 공개 요금표(/api/public/ai-plans·소개 사이트)의 단가 표시는 그대로 두었음 — 대표 결정 필요하면 알려 주세요.
 - 2026-10-25 [클라우드] [배포확인요청] 148차 — #592 ② 휴대폰 캘린더 주 보기 밀도(명세 §2): 시간 칸 주 40/3일 48/일 64 → 한 화면 약 15시간, 블록 11px 중간 굵기·줄 수 블록 높이만큼, 좁은 블록 앞머리 [태그] 떼기(부재 종류 유지), 종일 줄 기본 켬(2줄 + '+n개' → 그날 목록), 미팅 단추 둥근 48px·아래로 밀면 숨김, 휴대폰 머리줄 한 줄(월▾·보기 전환·‹›·오늘·+). 견적서 공급자 긴 주소 두 줄(로컬 15:45). 마이그레이션 없음(200 그대로). 로컬 요청: ① 대표 휴대폰(390~412px) 주 보기 — 08~22시가 한 화면에, [다짐 문의] 업무가 내용부터 2줄로, 종일 칩이 날짜 머리 아래 바로, + 단추가 칸을 안 가리고 아래로 밀면 숨는지(명세 §3 2~5) ② 3일·일 보기 칸 높이·일 보기는 제목 그대로 ③ 견적서 미리보기(hilink) 공급자 주소 두 줄 ④ 명세 §3 1·6(구글 11건·중복 정리)은 가져오기를 대표가 취소(#604)해 하지 않음 — 워크인에 직접 넣은 일정만 보임.
